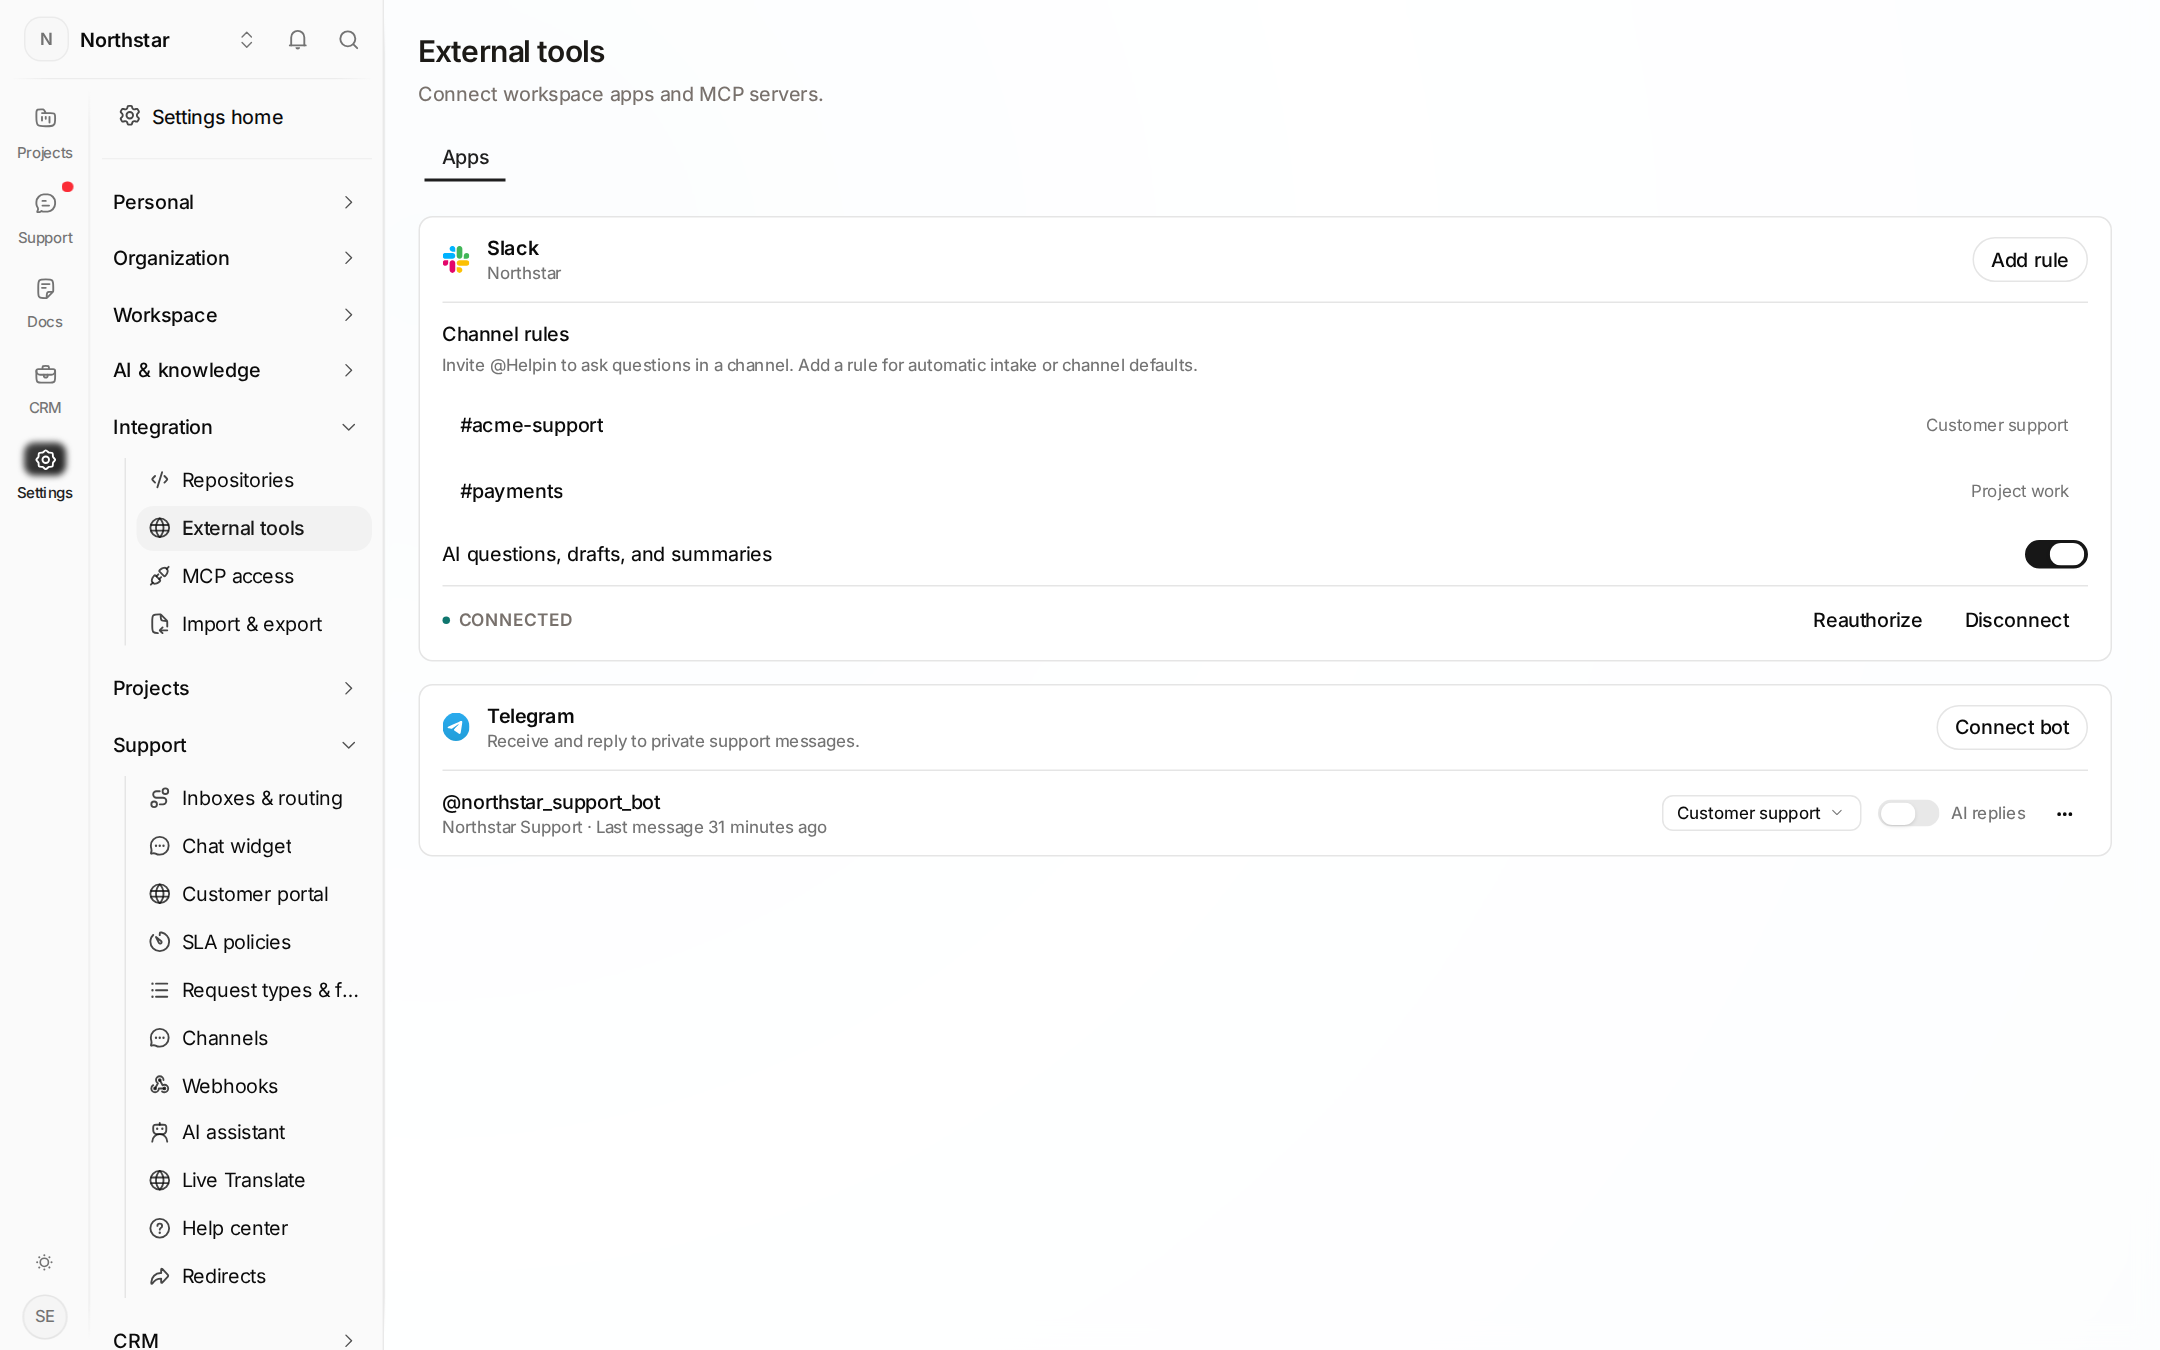
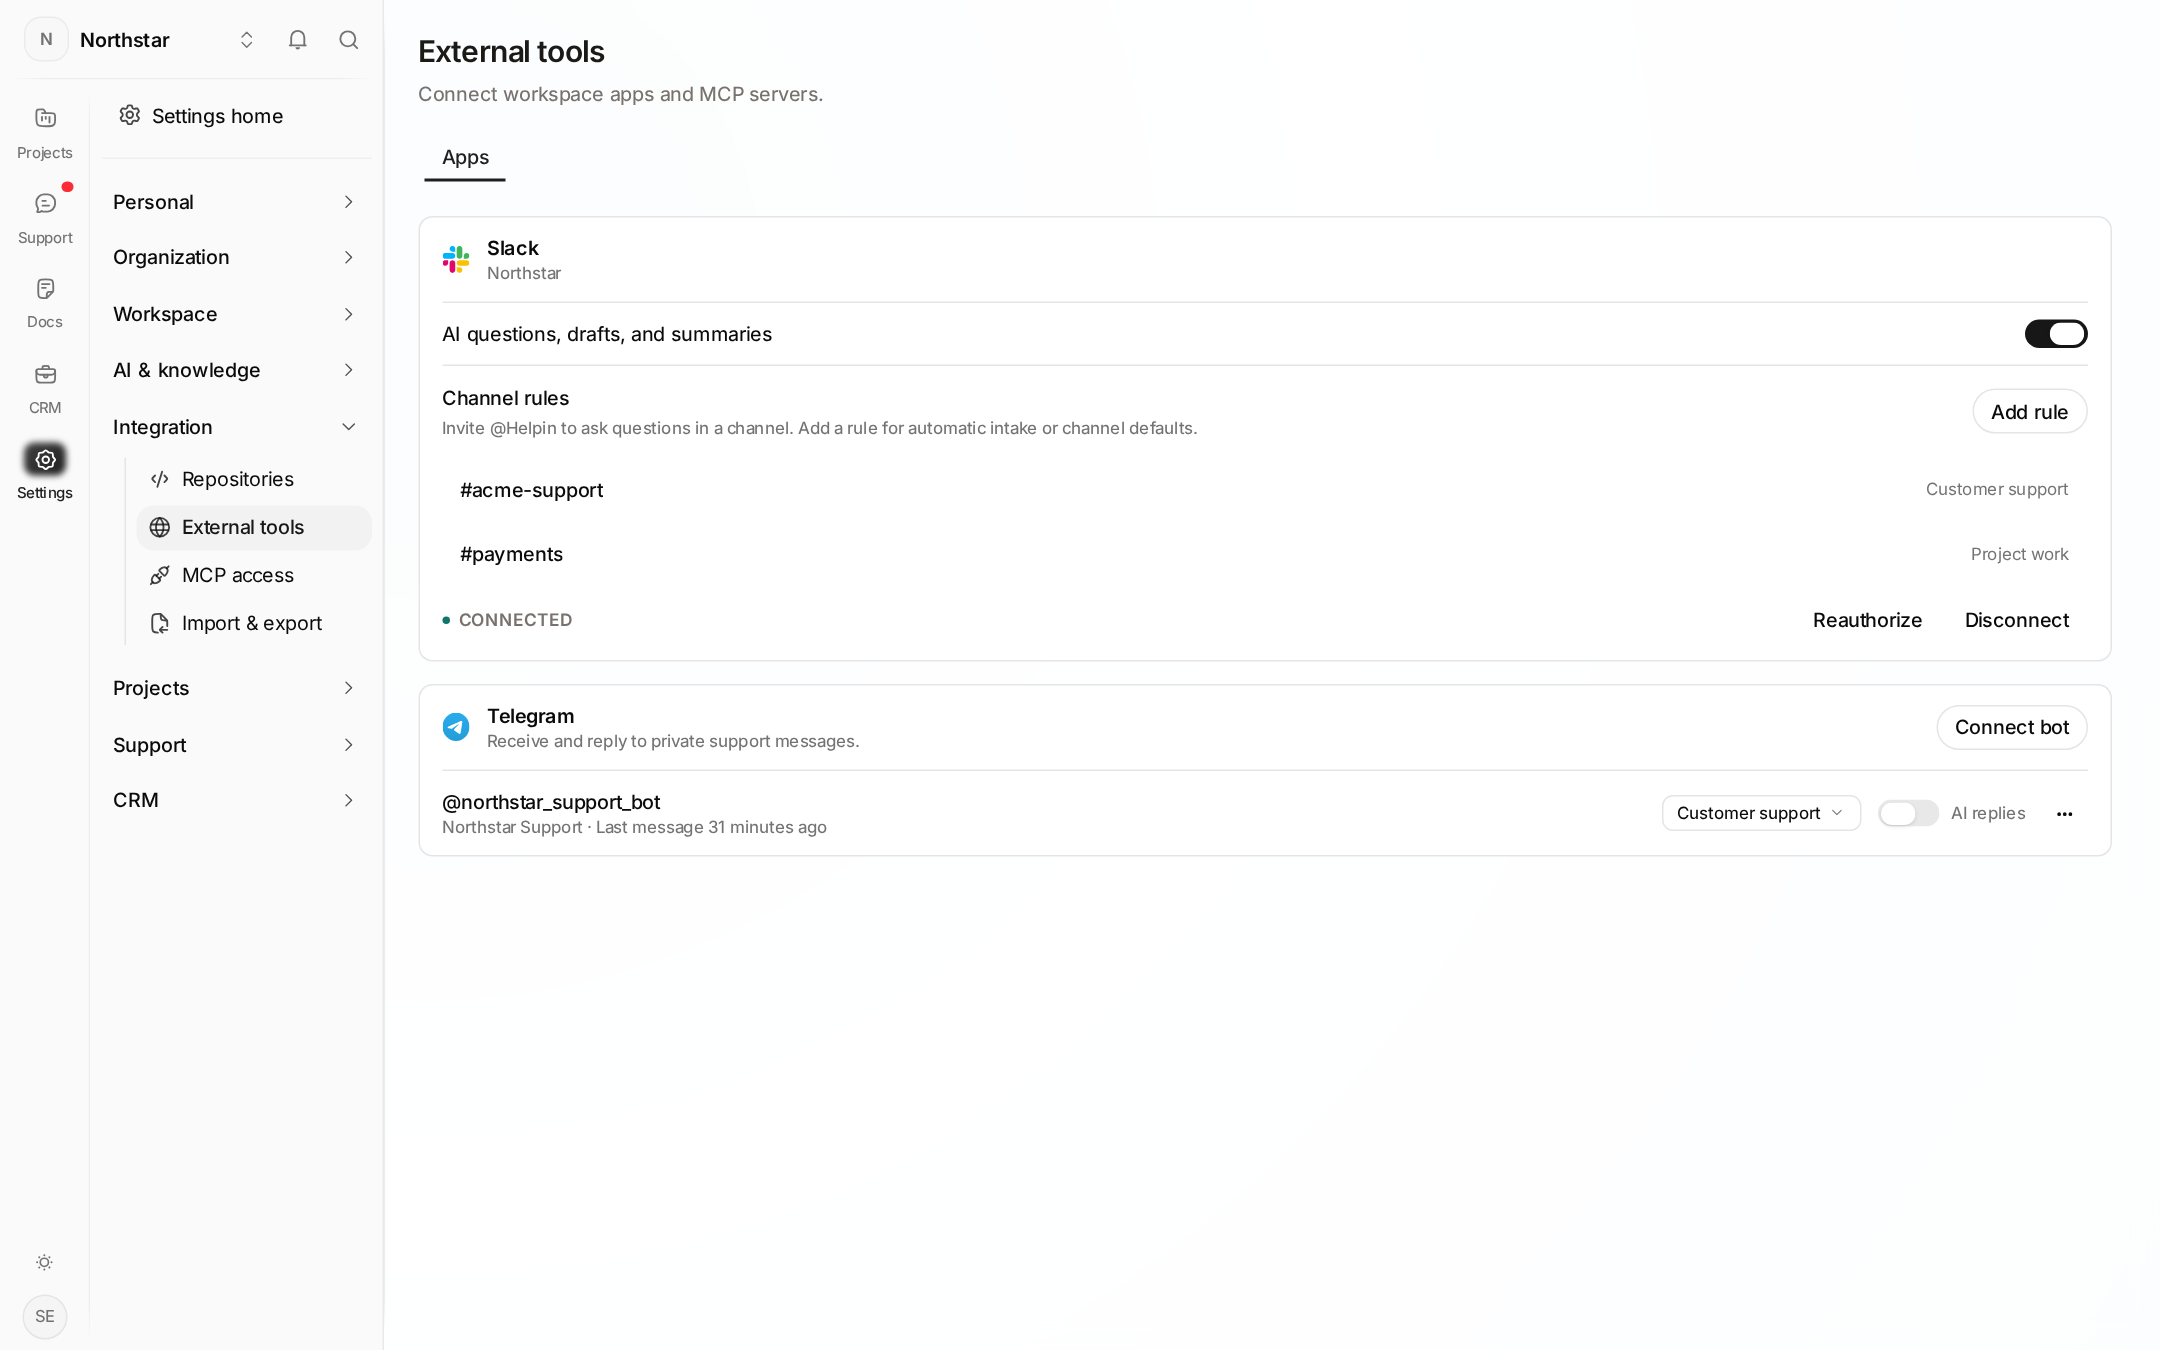
Show the Slack AI setting above channel rules

diff --git a/frontend/src/components/settings/channels/SlackChannels.tsx b/frontend/src/components/settings/channels/SlackChannels.tsx
@@ -113,20 +113,7 @@ export function SlackChannels({
                       : 'Configure the Slack app on your Helpin instance to connect.'}
             </p>
           </div>
-          {data?.connected ? (
-            <Button
-              size="sm"
-              variant="outline"
-              onClick={() =>
-                setDraft({
-                  ...emptyRoute,
-                  purpose: hasSupport ? 'support' : 'pm',
-                })
-              }
-            >
-              Add rule
-            </Button>
-          ) : (
+          {!data?.connected && (
             <Button
               size="sm"
               variant="outline"
@@ -139,9 +126,31 @@ export function SlackChannels({
         </div>
         {data?.connected && (
           <div className="mt-3 border-t">
-            <div className="space-y-1 py-3">
-              <h3 className="text-sm font-medium">Channel rules</h3>
-              <p className="text-xs text-muted-foreground">Invite @Helpin to ask questions in a channel. Add a rule for automatic intake or channel defaults.</p>
+            <label className="flex items-center justify-between gap-3 border-b py-3 text-sm">
+              AI questions, drafts, and summaries
+              <Switch
+                checked={!!data.ai_enabled}
+                disabled={ai.isPending}
+                onCheckedChange={(enabled) => ai.mutate(enabled)}
+              />
+            </label>
+            <div className="flex items-center justify-between gap-3 py-3">
+              <div className="min-w-0 space-y-1">
+                <h3 className="text-sm font-medium">Channel rules</h3>
+                <p className="text-xs text-muted-foreground">Invite @Helpin to ask questions in a channel. Add a rule for automatic intake or channel defaults.</p>
+              </div>
+              <Button
+                size="sm"
+                variant="outline"
+                onClick={() =>
+                  setDraft({
+                    ...emptyRoute,
+                    purpose: hasSupport ? 'support' : 'pm',
+                  })
+                }
+              >
+                Add rule
+              </Button>
             </div>
             {data.routes?.map((route) => (
               <Button
@@ -158,14 +167,6 @@ export function SlackChannels({
                 </span>
               </Button>
             ))}
-            <label className="flex items-center justify-between border-b py-3 text-sm">
-              AI questions, drafts, and summaries
-              <Switch
-                checked={!!data.ai_enabled}
-                disabled={ai.isPending}
-                onCheckedChange={(enabled) => ai.mutate(enabled)}
-              />
-            </label>
             <div className="flex items-center justify-between pt-2">
               <QuietStatusText tone="positive">Connected</QuietStatusText>
               <div className="flex items-center gap-1">

diff --git a/.mockups/slack/index.html b/.mockups/slack/index.html
@@ -64,7 +64,8 @@
       if (link.hash === '#' + id) link.setAttribute('aria-current', 'page')
       else link.removeAttribute('aria-current')
     }
-    const file = id === 'channels' ? 'channels.png?v=9' : id + '.png?v=8'
+    const version = { channels: 9, 'channel-rules': 10, routing: 10, 'project-routing': 10 }[id] ?? 8
+    const file = id + '.png?v=' + version
     document.getElementById('screen').src = file
     document.getElementById('screen').alt = captions[id]
     document.getElementById('full').href = file
